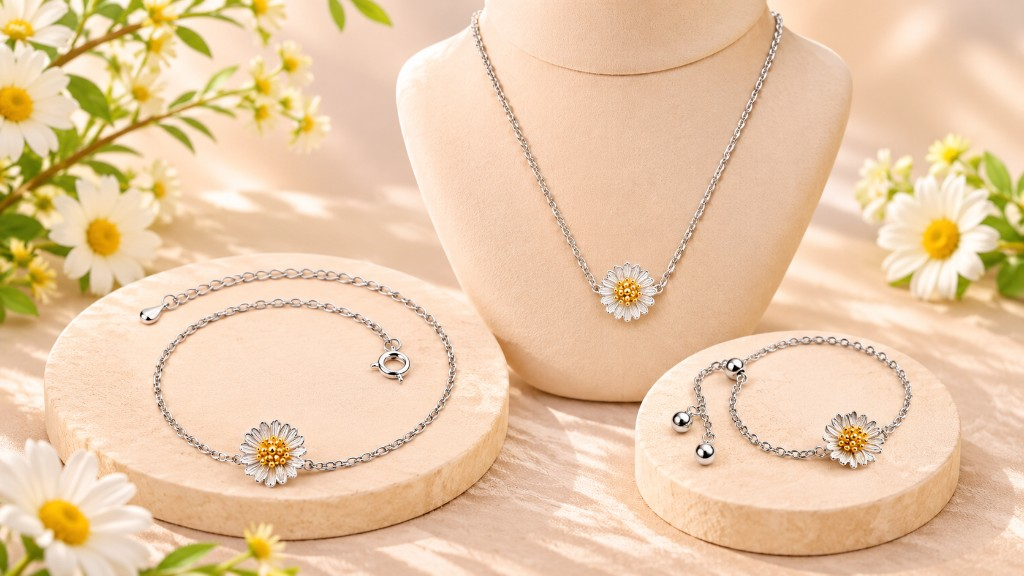
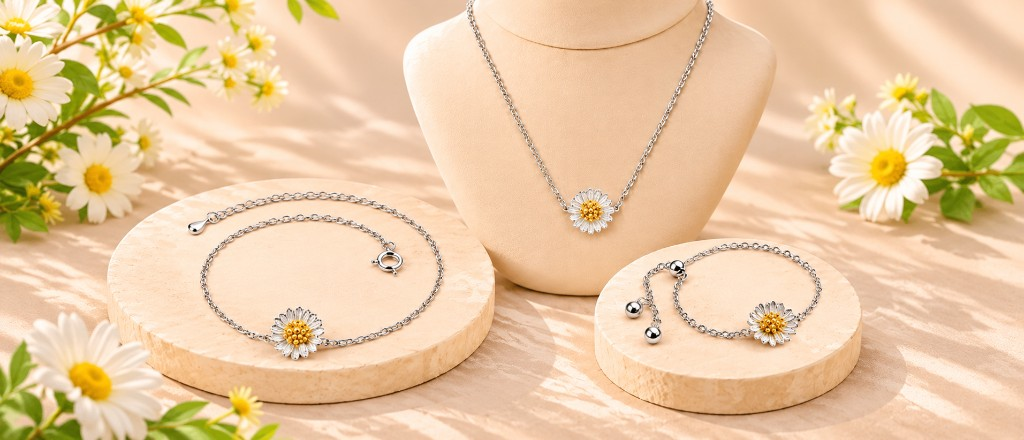
first commit

diff --git a/lib/asset-version.js b/lib/asset-version.js
@@ -2,7 +2,7 @@
  * Bump IMAGE_ASSET_VERSION whenever local public/ images are replaced in place.
  * Appended as ?v=N so next/image treats them as a new cache key.
  */
-export const IMAGE_ASSET_VERSION = '10';
+export const IMAGE_ASSET_VERSION = '12';
 
 /** Add or refresh ?v= for local paths. Remote URLs are left unchanged. */
 export function withAssetVersion(src) {
